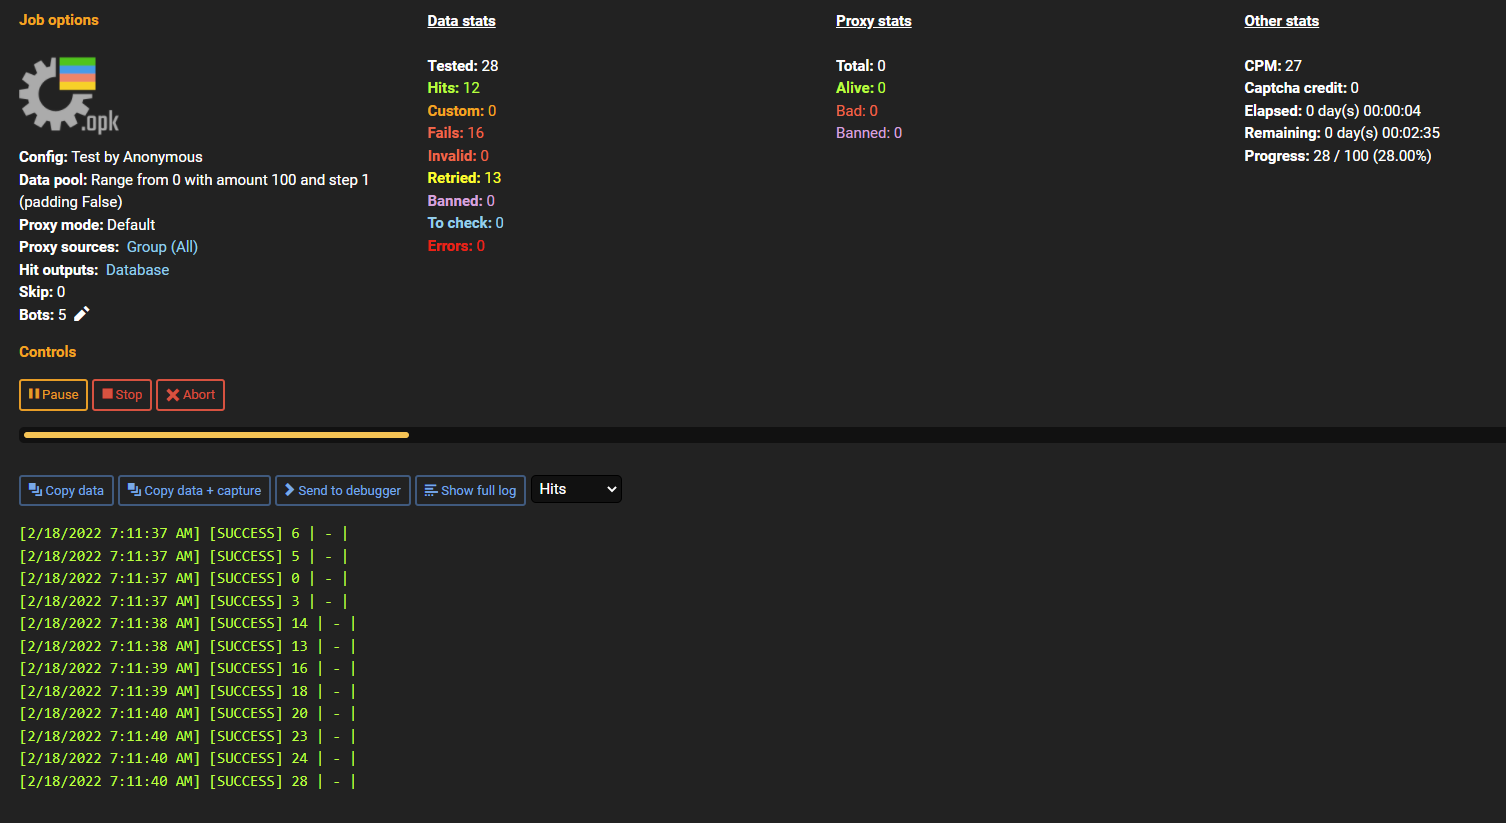
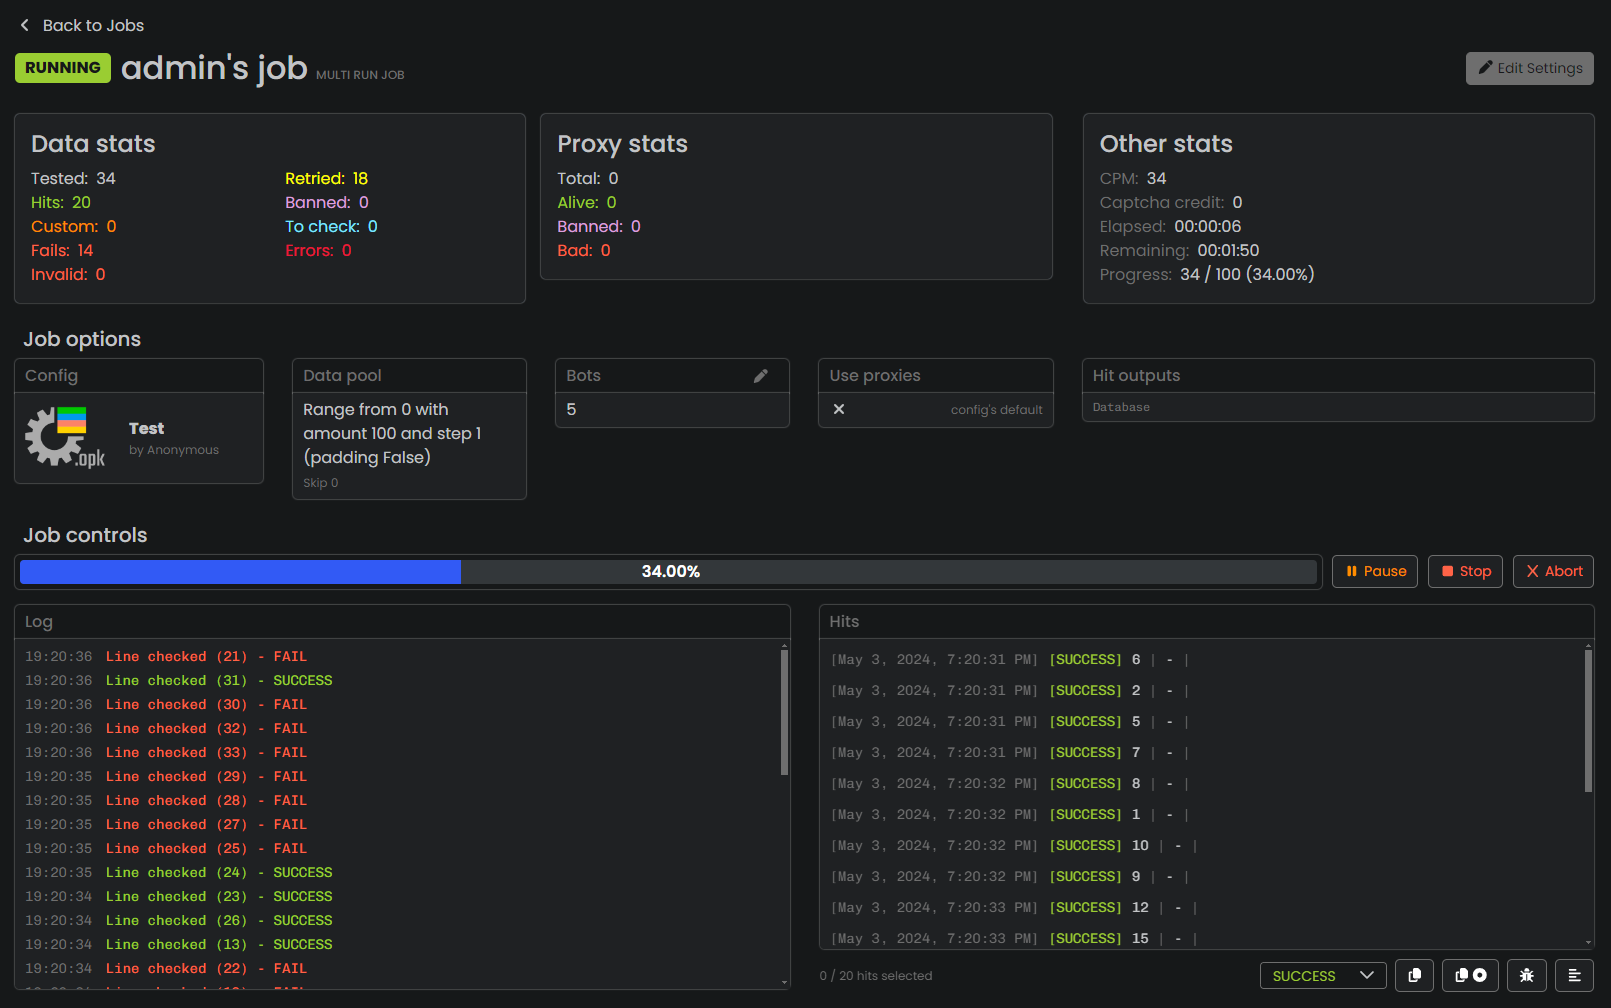
Fixed multi run job running page

diff --git a/docs/jobs/multi-run-job/running.md b/docs/jobs/multi-run-job/running.md
@@ -6,31 +6,27 @@ sidebar_position: 2
 # Running a Multi Run Job
 
 ### Setup
-For this guide, you will need to create a Multi Run Job with the given options (you can read the [creation guide](./creation.md) to know more about all the available options):
+For this guide, you will need to create a Multi Run Job by going to the *Jobs* tab, clicking on *New* and selecting *Multi Run Job*. You can read the [creation guide](./creation.md) to know more about all the available options. We will use the following options:
 - config: [sample config](/download/Test.opk)
 - 5 bots
 - data pool: range from 0 to 100 with step 1, Default wordlist type
 
-At this point, you will see something like this
+Leave everything else default. Your options need to look like these:
+
+![Sample settings](/img/jobs/multi-run-job/sample-settings.png)
+
+Finally, click on the *Create Job* button. At this point, you should see something like this
 
 ![Multi Run Job Viewer (idle)](/img/jobs/multi-run-job/viewer-idle.png)
 
-On the left, you can see most of the options that you previously configured. You can now do the following things:
+In the *Job options* section, you can see most of the options that you previously configured. You can now do the following things:
 - Change the options of the job (only when idle)
 - Change the number of bots (also while running)
 - Start the job
 
-If you click on start you will see the progress bar filling up and some hits being obtained
+If you click on *Start* you will see the progress bar filling up, the logs being printed and some hits being obtained
 
 ![Multi Run Job (running)](/img/jobs/multi-run-job/viewer-running.png)
-
-You can go to the *OB Settings* section and tick the following option to enable real-time logging as data gets checked.
-
-![Enable job log](/img/jobs/multi-run-job/enable-logging.png)
-
-Now run the job again, you will see something like this
-
-![Multi Run Job (running with log)](/img/jobs/multi-run-job/viewer-running-log.png)
 
 :::info INFO
 If you want to run the job again, you will need to rewind the *skip* value to the beginning, so click on the *Change* button and set the *skip* back to 0 before attempting to start the job again.
@@ -39,7 +35,7 @@ If you want to run the job again, you will need to rewind the *skip* value to th
 ### Stats Overview
 #### Data
 | Name          | Explanation                                            |
-|---------------|--------------------------------------------------------|
+|:--------------|:-------------------------------------------------------|
 |**Tested**     |The number of data lines that have been tested so far   |
 |**Hits**       |How many times the bot ended with a `SUCCESS` status    |
 |**Custom**     |How many times the bot ended with `CUSTOM` or another custom status|
@@ -52,7 +48,7 @@ If you want to run the job again, you will need to rewind the *skip* value to th
 
 #### Proxy
 | Name          | Explanation                                            |
-|---------------|--------------------------------------------------------|
+|:--------------|:-------------------------------------------------------|
 |**Total**      |The total number of proxies that are currently in the pool  |
 |**Alive**      |The number of proxies that are still alive and are able to be assigned to bots|
 |**Bad**        |*Not implemented yet*|
@@ -60,7 +56,7 @@ If you want to run the job again, you will need to rewind the *skip* value to th
 
 #### Others
 | Name              | Explanation                                            |
-|-------------------|--------------------------------------------------------|
+|:------------------|:-------------------------------------------------------|
 |**CPM**            |The number of checks per minute|
 |**Captcha Credit** |The remaining captcha credit (if the config uses a captcha service)|
 |**Elapsed**        |The time elapsed since the beginning of the run|
@@ -68,16 +64,13 @@ If you want to run the job again, you will need to rewind the *skip* value to th
 |**Progress**       |The overall progress of the check (includes the *skip*)|
 
 ### Controls
-
-![Controls](/img/jobs/multi-run-job/controls.png)
-
 During the run, you are able to
 - **Pause** the job and resume it later. When you click pause, the job waits until all bots finished processing their assigned items before going into a paused state
 - **Stop** the job. When you click stop, the job waits until all bots finished processing their assigned items before going into an idle state
 - **Abort** the job. When you click abort, the job will abruptly terminate all bots and you might lose the outcome of the ongoing checks
 
 :::info INFO
-In the job options, you can enable the *mark as to check on abort* option to make the current items go to *To check* when you click abort, so that you can check them manually or include them in the next run if needed.
+In the job options, you can enable the *mark as to check on abort* option to make the current items go to *To Check* when you click abort, so that you can check them manually or include them in the next run if needed.
 :::
 
 :::caution WARNING
@@ -85,26 +78,16 @@ If a bot is stuck in a *ban loop* (for example because it keeps ending with an `
 :::
 
 ### Hits
-By default, a job will save hits, custom and to check results to memory, in addition to sending them to the *hit outputs* you configured. You can see the hits right below a job in the job viewer page.
+By default, a job will save hits, custom and to check results to memory, in addition to sending them to the *hit outputs* you configured. You can see the hits the job obtained in the bottom-right area of the page.
 
 ![Hits](/img/jobs/multi-run-job/hits.png)
 
 You can select more than one hit by using the CTRL or SHIFT keys on your keyboard to add individual items or entire ranges to the selection, respectively. You can then copy the data from the hits and paste it where you want.
 
-:::caution WARNING
-If you are using the web client without HTTPS, your browser will show you this error
-
-![Hits](/img/jobs/multi-run-job/clipboard-error.png)
-
-To solve this problem you can either enable unsecure sources in the browser or use something like [ngrok or cloudflared](https://discourse.openbullet.dev/t/your-openbullet-online/925)
-:::
-
-You are also able to *send* the hit (along with the proxy and wordlist type) to the *debugger*, and *show the full log* of the hit. The full log is only saved if you enable this option in the *RL Settings* section.
-
-![Enable bot logging](/img/jobs/multi-run-job/enable-bot-logging.png)
+You are also able to *send* the hit (along with the proxy and wordlist type) to the *debugger*, and *show the full log* of the hit. The full log is only saved if you enable this option in the *RL Settings* section. Also, bot logs are only available to the admin user.
 
 :::caution WARNING
-Bot logs can be huge and eat up a lot of your RAM, so only enable them while debugging a config (for example to check why something ended up as *To check* instead of another result). Do not leave it enabled while checking a high amount of data lines, otherwise you will run into problems.
+Bot logs can be huge and eat up a lot of your RAM, so only enable them while debugging a config (for example to check why something ended up as *To check* instead of another result). Do not leave it enabled while checking a high amount of data lines, otherwise you will run into memory issues.
 :::
 
 ![Bot log](/img/jobs/multi-run-job/bot-log.png)

diff --git a/docs/faq.md b/docs/faq.md
@@ -11,6 +11,7 @@ sidebar_position: 100
 No, OpenBullet 2 can read `.loli` configs, except for a few specific blocks or settings. You can simply import a `.loli` config inside OpenBullet 2 and it will automatically repackage it into the `.opk` format. You can also drop the config in the `UserData/Configs` folder and perform a rescan to achieve the same thing.
 
 The following features are **not supported**:
+- editing the config through *Stacker*, only raw *LoliScript* code
 - a few config settings from the old OB1 system
 - the *MOUSEACTION* command
 - the *CFBypass* block

diff --git a/docs/jobs/job-monitor.md b/docs/jobs/job-monitor.md
@@ -1,0 +1,5 @@
+---
+sidebar_label: 'Job Monitor'
+sidebar_position: 2
+---
+
